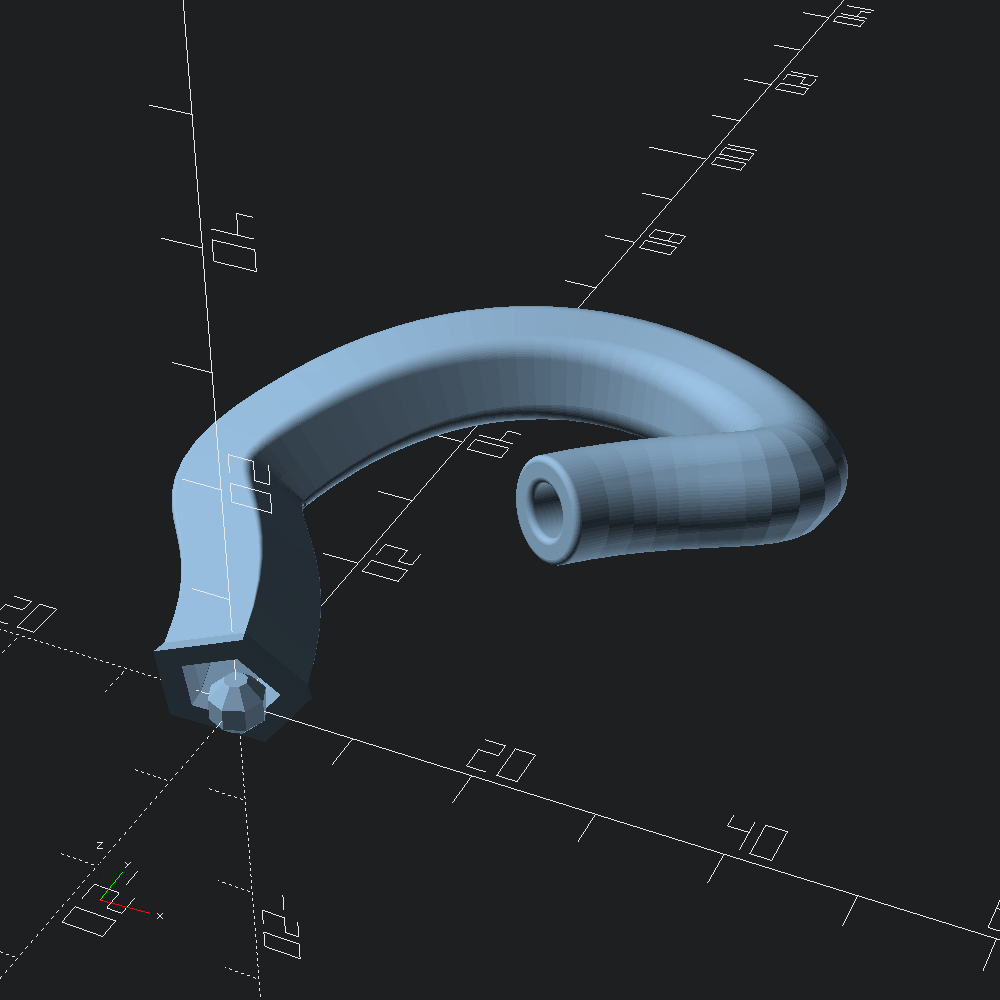
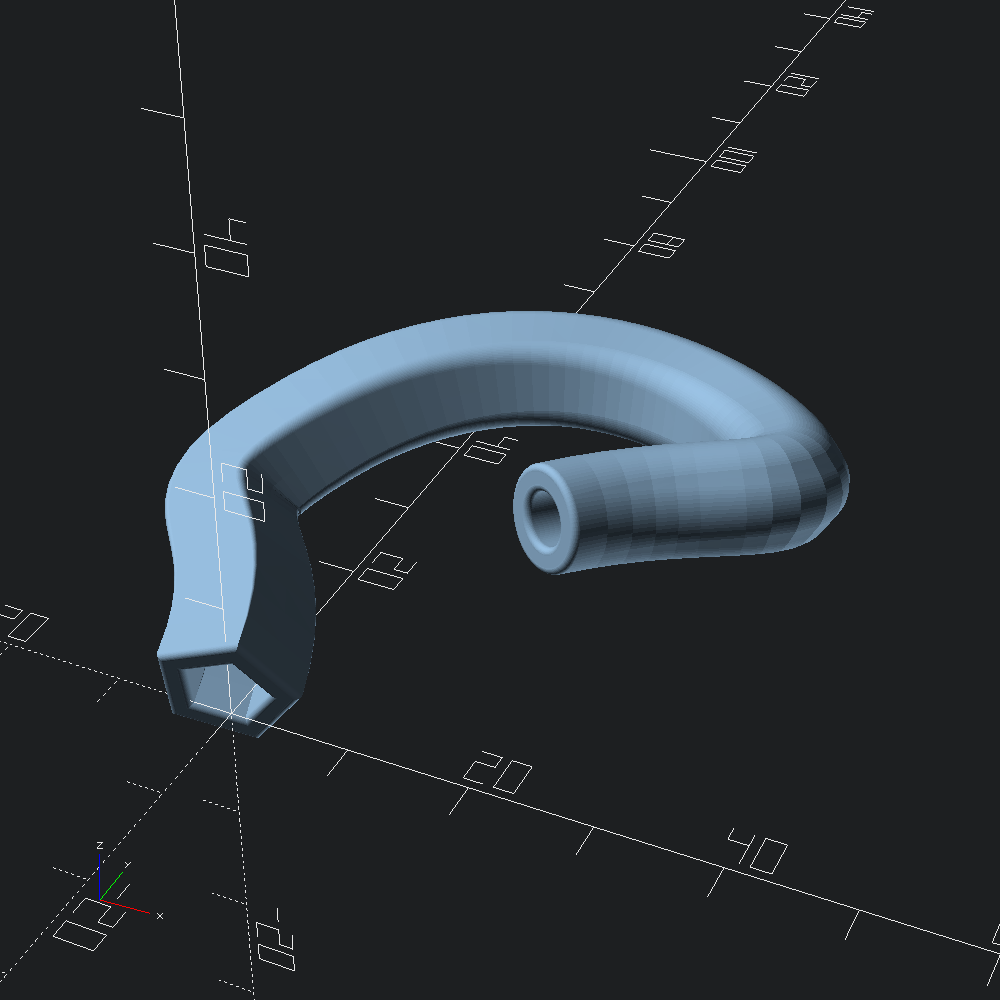
deploy: 8fb3dc43d7efa78251a5a11c62df8905dd4dcc0d

diff --git a/scad_ml/morphing_sweeps.html b/scad_ml/morphing_sweeps.html
@@ -1,23 +1,5 @@
 <!DOCTYPE html>
-<html xmlns="http://www.w3.org/1999/xhtml"><head><title>morphing_sweeps (scad_ml.morphing_sweeps)</title><link rel="stylesheet" href="../odoc.css"/><meta charset="utf-8"/><meta name="generator" content="odoc 2.1.1"/><meta name="viewport" content="width=device-width,initial-scale=1.0"/><script src="../highlight.pack.js"></script><script>hljs.initHighlightingOnLoad();</script></head><body class="odoc"><nav class="odoc-nav"><a href="index.html">Up</a> – <a href="index.html">scad_ml</a> &#x00BB; morphing_sweeps</nav><header class="odoc-preamble"><h1 id="morphing-sweeps"><a href="#morphing-sweeps" class="anchor"></a>Morphing Sweeps</h1><pre><code>open Scad_ml
-
-let () =
-  let test_union s = Scad.union [ s; Scad.(translate (v3 4. 0. 0.) @@ sphere 1.) ] in
-  Mesh.linear_morph
-    ~refine:2
-    ~ez:(v2 0.42 0., v2 1. 1.)
-    ~slices:60
-    ~outer_map:`Tangent
-    ~height:3.
-    (Poly2.ring ~fn:5 ~thickness:(v2 1. 1.) (v2 4. 4.))
-    (Poly2.ring ~fn:80 ~thickness:(v2 0.2 0.2) (v2 1. 1.))
-  |&gt; Mesh.to_scad
-  |&gt; test_union
-  |&gt; Scad.to_file &quot;eased_morph.scad&quot;</code></pre>
-<p style="text-align:center;">
-<img src="../assets/eased_morph.png" style="width:150mm;"/>
-</p> <pre><code>let () =
-  let test_union s = Scad.union [ s; Scad.sphere 2.5 ] in
+<html xmlns="http://www.w3.org/1999/xhtml"><head><title>morphing_sweeps (scad_ml.morphing_sweeps)</title><link rel="stylesheet" href="../odoc.css"/><meta charset="utf-8"/><meta name="generator" content="odoc 2.1.1"/><meta name="viewport" content="width=device-width,initial-scale=1.0"/><script src="../highlight.pack.js"></script><script>hljs.initHighlightingOnLoad();</script></head><body class="odoc"><nav class="odoc-nav"><a href="index.html">Up</a> – <a href="index.html">scad_ml</a> &#x00BB; morphing_sweeps</nav><header class="odoc-preamble"><h1 id="morphing-sweeps"><a href="#morphing-sweeps" class="anchor"></a>Morphing Sweeps</h1><pre><code>open Scad_ml</code></pre><p>While <a href="Scad_ml/Mesh/index.html#val-sweep"><code>Mesh.sweep</code></a> and it's derived functions are useful for sweeping fixed polygons with holes, as shown in the <a href="rounded_polyhole_sweep.html">rounded sweeps demo</a>, the <a href="Scad_ml/Mesh/index.html#val-morph"><code>Mesh.morph</code></a> family provides a means to do so with different shapes at the beginning and end.</p><pre><code>let () =
   let path =
     let control =
       Vec3.[ v 0. 0. 2.; v 0. 20. 20.; v 40. 20. 10.; v 30. 0. 10. ]
@@ -25,16 +7,32 @@ let () =
     in
     Bezier3.curve ~fn:60 @@ Bezier3.of_path ~size:(`FlatRel 0.3) control
   and caps =
-    Mesh.Cap.
-      { bot = round ~holes:`Same @@ chamf ~height:(-1.2) ~angle:(Float.pi /. 8.) ()
-      ; top = round @@ circ (`Radius 0.5)
-      }
+    Mesh.Cap.{ bot = round @@ circ (`Radius 0.5); top = round @@ circ (`Radius 0.5) }
   and a = Poly2.ring ~fn:5 ~thickness:(v2 2.5 2.5) (v2 6. 6.)
   and b = Poly2.ring ~fn:80 ~thickness:(v2 2. 2.) (v2 4. 4.) in
   Mesh.path_morph ~refine:2 ~caps ~path ~outer_map:`Tangent a b
   |&gt; Mesh.to_scad
-  |&gt; test_union
   |&gt; Scad.to_file &quot;tangent_morph_sweep.scad&quot;</code></pre>
 <p style="text-align:center;">
 <img src="../assets/tangent_morph_sweep.png" style="width:150mm;"/>
+</p> <p>Similar to the <code>?scale_ez</code> and <code>?twist_ez</code> parameters on <a href="Scad_ml/Path3/index.html#val-to_transforms"><code>Path3.to_transforms</code></a> and those that make use of it, such as <a href="Scad_ml/Mesh/index.html#val-linear_morph"><code>Mesh.linear_morph</code></a>, the morphing sweep functions in the <a href="Scad_ml/Mesh/index.html"><code>Mesh</code></a> module expose <code>?ez</code>, which offers the same style of bezier easing (see <a href="Scad_ml/Easing/index.html"><code>Easing</code></a>) for morphs.</p><pre><code>let () =
+  let scad =
+    Mesh.linear_morph
+      ~refine:2
+      ~ez:(v2 0.42 0., v2 1. 1.)
+      ~slices:60
+      ~outer_map:`Tangent
+      ~height:3.
+      (Poly2.ring ~fn:5 ~thickness:(v2 0.5 0.5) (v2 4. 4.))
+      (Poly2.ring ~fn:80 ~thickness:(v2 0.2 0.2) (v2 1. 1.))
+    |&gt; Mesh.to_scad
+  in
+  Scad.(
+    union
+      [ translate (v3 0. 0. 2.) scad
+      ; translate (v3 0. 0. (-2.)) @@ rotate (v3 Float.pi 0. 0.) scad
+      ])
+  |&gt; Scad.to_file &quot;eased_morph.scad&quot;</code></pre>
+<p style="text-align:center;">
+<img src="../assets/eased_morph.png" style="width:150mm;"/>
 </p> </header><div class="odoc-content"></div></body></html>
